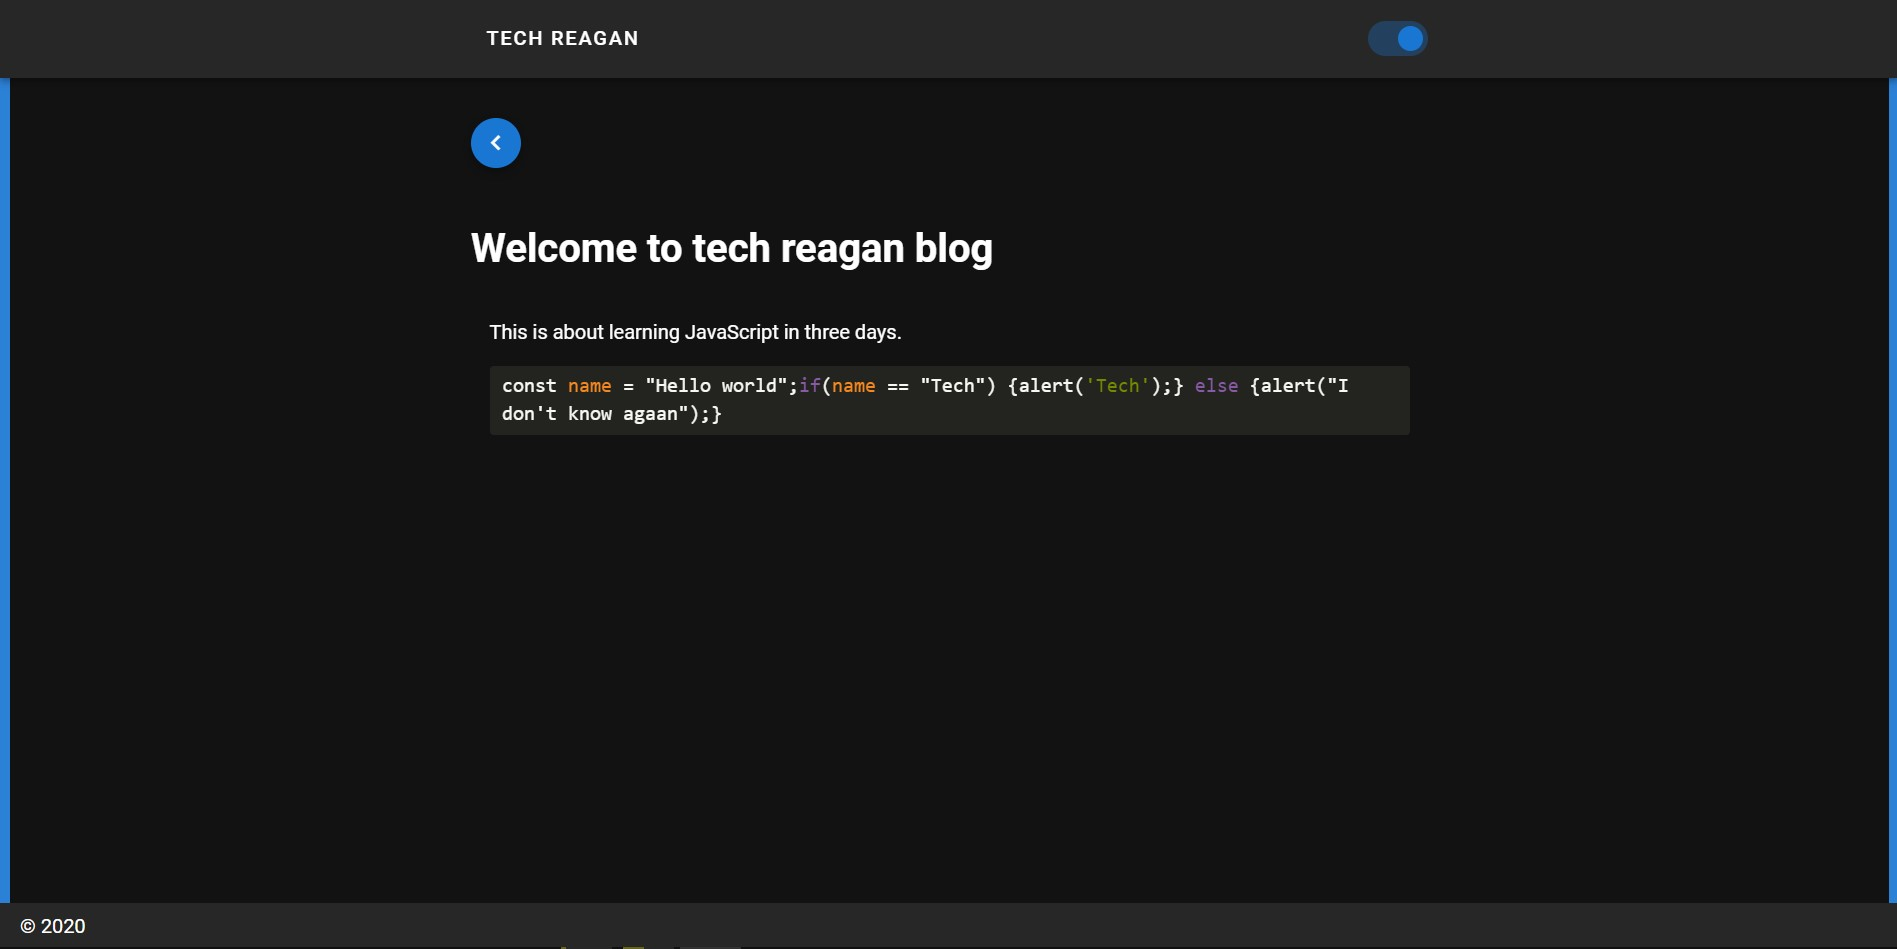
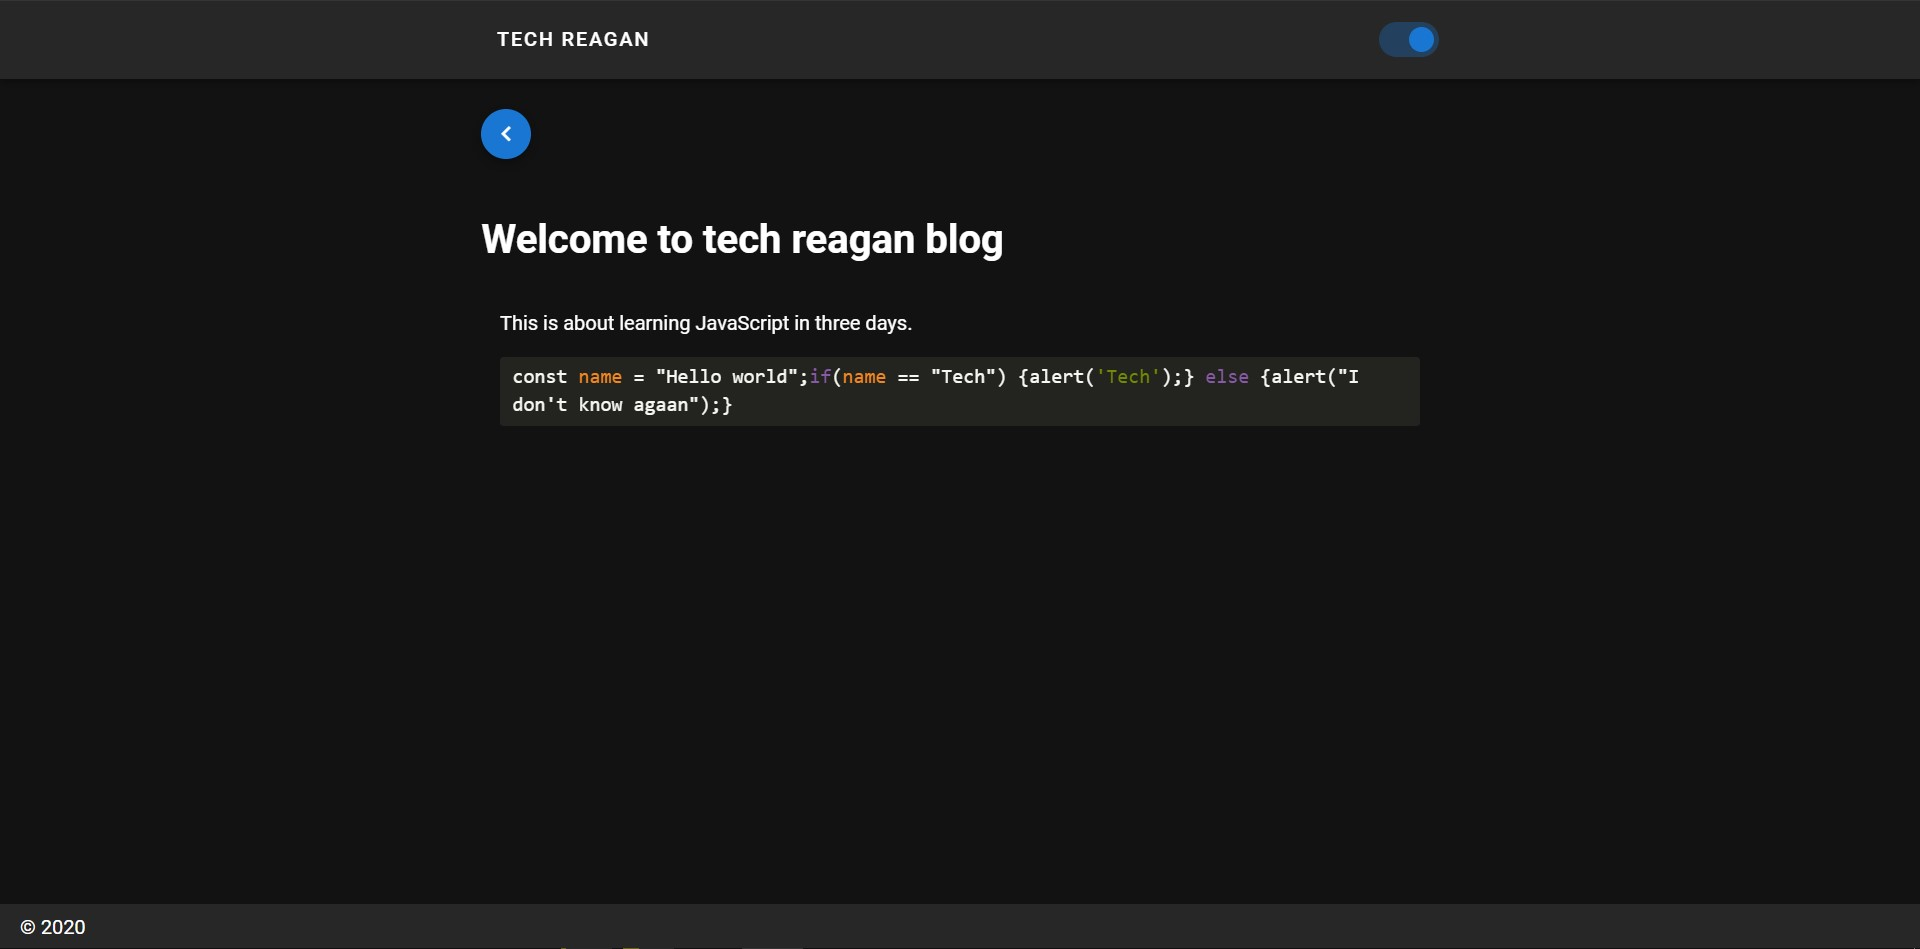
Remove blue borders

diff --git a/layouts/default.vue b/layouts/default.vue
@@ -1,5 +1,5 @@
 <template>
-  <v-app dark style="border: 8px solid #2B81D6">
+  <v-app dark>
     <v-app-bar fixed app>
       <v-container>
         <v-row class="justify-center">
